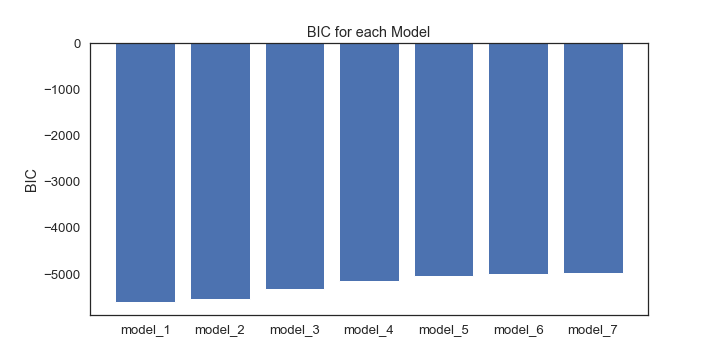
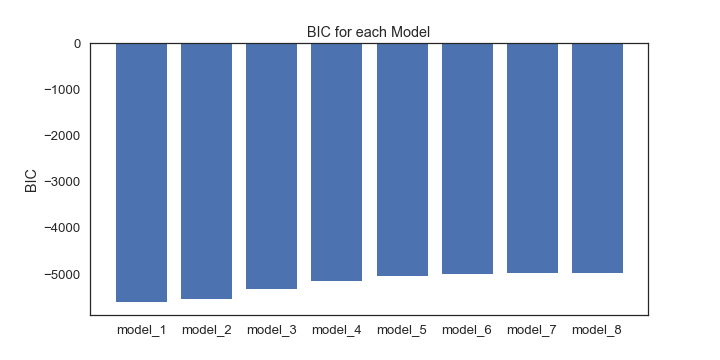
adding model-8

diff --git a/hw-4/instrumental-interactions/model_template.py b/hw-4/instrumental-interactions/model_template.py
@@ -595,7 +595,8 @@ PARAMS = {
     'model_4': ['learning_rate', 'beta', 'bias_app', 'bias_wth'],
     'model_5': ['learning_rate', 'rho_rew', 'rho_pun', 'bias_app', 'bias_wth'],
     'model_6': ['learning_rate', 'rho_rew_app', 'rho_rew_wth', 'rho_pun_app', 'rho_pun_wth', 'bias_app', 'bias_wth'],
-    'model_7': ['learning_rate_app', 'learning_rate_wth',  'rho_rew', 'rho_pun', 'bias_app', 'bias_wth']
+    'model_7': ['learning_rate_app', 'learning_rate_wth',  'rho_rew', 'rho_pun', 'bias_app', 'bias_wth'],
+    'model_8': ['learning_rate_app', 'learning_rate_wth',  'rho_rew', 'rho_pun', 'bias_app', 'bias_wth', 'bias_pav']
 }
 
 BOUNDS = {
@@ -643,6 +644,15 @@ BOUNDS = {
         'rho_pun': (0, 100),
         'bias_app': (-10, 10),
         'bias_wth': (-10, 10)
+    },
+    'model_8': {
+        'learning_rate_app': (0, 1),
+        'learning_rate_wth': (0, 1),
+        'rho_rew': (0, 100),
+        'rho_pun': (0, 100),
+        'bias_app': (-10, 10),
+        'bias_wth': (-10, 10),
+        'bias_pav': (-10, 10)
     }
 }
 
@@ -691,6 +701,15 @@ INITIAL_PARAMS = {
         'rho_pun': 0.5,
         'bias_app': 0.5,
         'bias_wth': 0.5
+    },
+    'model_8': {
+        'learning_rate_app': 0.1,
+        'learning_rate_wth': 0.1,
+        'rho_rew': 0.5,
+        'rho_pun': 0.5,
+        'bias_app': 0.5,
+        'bias_wth': 0.5,
+        'bias_pav': 0.5
     }
 }
 
@@ -701,7 +720,8 @@ MODELS = {
     'model_4': model_4,
     'model_5': model_5,
     'model_6': model_6,
-    'model_7': model_7
+    'model_7': model_7,
+    'model_8': model_8
 }
 
 #%%
